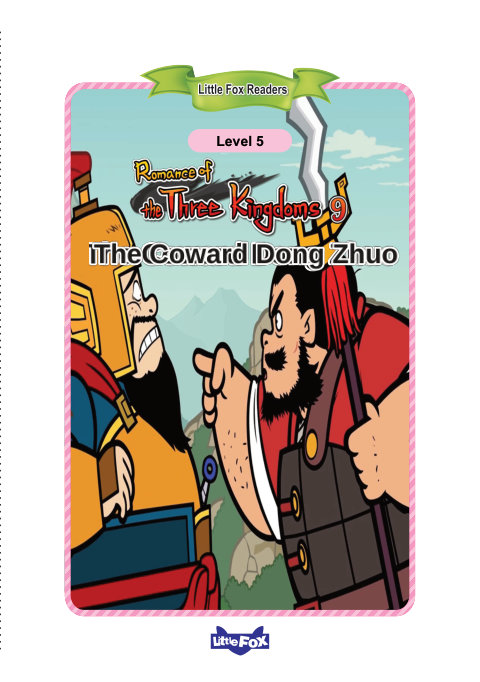
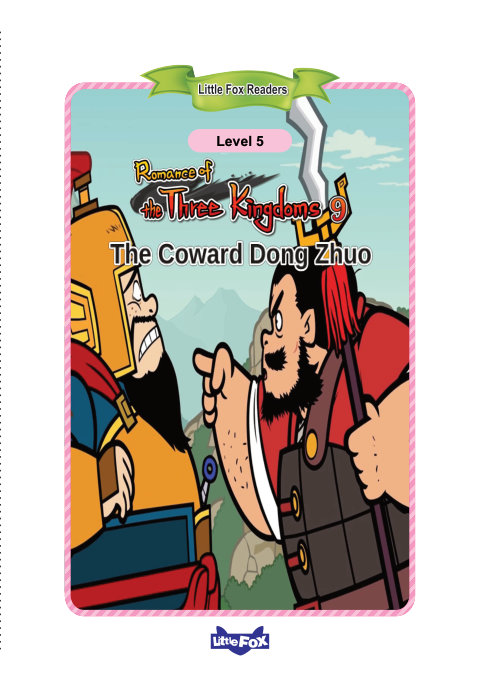
Replace Three Kingdoms episode 9 and 10 PDF sources

Changed region(s): [[0.1875, 0.3387, 0.8438, 0.4003]]

diff --git a/netlify/edge-functions/book-download.js b/netlify/edge-functions/book-download.js
@@ -1,6 +1,6 @@
 import { cloudSource, validPdf } from '../lib/book-cloud.js';
 // A catalogue-source, full-file download. PDF.js never reads this URL directly.
-const SOURCES = {"pdf-reading-test": "https://u.pone.rs/zkaylinz.pdf", "a-dog-of-flanders": "https://u.pone.rs/qelkoevg.pdf", "aladdin-and-his-wonderful-lamp": "https://u.pone.rs/ehbqnbee.pdf", "alice-in-wonderland": "https://u.pone.rs/cmxqudzv.pdf", "gullivers-travels": "https://u.pone.rs/qqccjlit.pdf", "heidi": "https://u.pone.rs/wijcznaj.pdf", "iggy-the-incredible-inventor": "https://u.pone.rs/xaxjurup.pdf", "journey-to-the-west": "https://u.pone.rs/kxjfgzfi.pdf", "rocket-girl-galaxy-squad": "https://u.pone.rs/isqpdqxo.pdf", "rocket-girl-journey-to-the-west": "https://u.pone.rs/yshuiyzs.pdf", "single-stories": "https://u.pone.rs/fudnlnmi.pdf", "the-adventures-of-pinocchio": "https://u.pone.rs/mxuhlmxm.pdf", "the-enchanted-castle": "https://u.pone.rs/cjumsjir.pdf", "the-little-mermaid": "https://u.pone.rs/wrzwsrbd.pdf", "the-railway-children": "https://u.pone.rs/wrafmuqy.pdf", "disney-the-lion-king": "https://u.pone.rs/qrpgpmlj.pdf", "three-kingdoms-02": "https://u.pone.rs/wvrginuf.pdf", "three-kingdoms-03": "https://u.pone.rs/lasqengr.pdf", "three-kingdoms-04": "https://u.pone.rs/lcnpduky.pdf", "three-kingdoms-05": "https://u.pone.rs/xukshgmh.pdf", "three-kingdoms-06": "https://u.pone.rs/tybyybvg.pdf", "three-kingdoms-07": "https://u.pone.rs/adlemyxa.pdf", "three-kingdoms-08": "https://u.pone.rs/dbrfselm.pdf", "three-kingdoms-09": "https://u.pone.rs/lczdukke.pdf", "three-kingdoms-10": "https://u.pone.rs/wcdxxidx.pdf", "three-kingdoms-11": "https://u.pone.rs/canhqqrr.pdf", "three-kingdoms-12": "https://u.pone.rs/kucisgqw.pdf"};
+const SOURCES = {"pdf-reading-test": "https://u.pone.rs/zkaylinz.pdf", "a-dog-of-flanders": "https://u.pone.rs/qelkoevg.pdf", "aladdin-and-his-wonderful-lamp": "https://u.pone.rs/ehbqnbee.pdf", "alice-in-wonderland": "https://u.pone.rs/cmxqudzv.pdf", "gullivers-travels": "https://u.pone.rs/qqccjlit.pdf", "heidi": "https://u.pone.rs/wijcznaj.pdf", "iggy-the-incredible-inventor": "https://u.pone.rs/xaxjurup.pdf", "journey-to-the-west": "https://u.pone.rs/kxjfgzfi.pdf", "rocket-girl-galaxy-squad": "https://u.pone.rs/isqpdqxo.pdf", "rocket-girl-journey-to-the-west": "https://u.pone.rs/yshuiyzs.pdf", "single-stories": "https://u.pone.rs/fudnlnmi.pdf", "the-adventures-of-pinocchio": "https://u.pone.rs/mxuhlmxm.pdf", "the-enchanted-castle": "https://u.pone.rs/cjumsjir.pdf", "the-little-mermaid": "https://u.pone.rs/wrzwsrbd.pdf", "the-railway-children": "https://u.pone.rs/wrafmuqy.pdf", "disney-the-lion-king": "https://u.pone.rs/qrpgpmlj.pdf", "three-kingdoms-02": "https://u.pone.rs/wvrginuf.pdf", "three-kingdoms-03": "https://u.pone.rs/lasqengr.pdf", "three-kingdoms-04": "https://u.pone.rs/lcnpduky.pdf", "three-kingdoms-05": "https://u.pone.rs/xukshgmh.pdf", "three-kingdoms-06": "https://u.pone.rs/tybyybvg.pdf", "three-kingdoms-07": "https://u.pone.rs/adlemyxa.pdf", "three-kingdoms-08": "https://u.pone.rs/dbrfselm.pdf", "three-kingdoms-09": "https://u.pone.rs/cyimcyzw.pdf", "three-kingdoms-10": "https://u.pone.rs/iwihumxn.pdf", "three-kingdoms-11": "https://u.pone.rs/canhqqrr.pdf", "three-kingdoms-12": "https://u.pone.rs/kucisgqw.pdf"};
 export default async function bookDownload(request) {
   if (!['GET', 'HEAD'].includes(request.method)) return new Response('Method not allowed', { status: 405, headers: { Allow: 'GET, HEAD' } });
   const match = /^\/book-download\/([a-z0-9-]+)\.pdf$/.exec(new URL(request.url).pathname);

diff --git a/js/books.js b/js/books.js
@@ -222,6 +222,8 @@ window.BookReader = {
       if (!current()) return;
       if (!blob) {
         const url = new URL(item.downloadUrl || item.sourceUrl, location.origin);
+        // Replacing a PDF under the same book ID must bypass older HTTP responses.
+        if (item.downloadUrl && item.sourceUrl) url.searchParams.set('source', item.sourceUrl);
         if (url.protocol !== 'https:' || url.username || url.password || (item.downloadUrl && url.origin !== location.origin)) throw new Error('绘本加载地址不可用。');
         const response = await fetch(url.href, { signal: controller.signal, credentials: 'omit' });
         if (!response.ok) throw new Error(`加载失败（${response.status}），请重试。`);

diff --git a/index.html b/index.html
@@ -81,7 +81,7 @@
   <script src="source-lab/core.js?v=20261030-dulo-session"></script>
   <script src="js/movie-subtitles.js?v=20261020-1"></script>
   <script src="js/movies.js?v=20261030-dulo-host"></script>
-  <script src="js/books.js?v=20261102-shelf-management"></script>
+  <script src="js/books.js?v=20261103-pdf-replacements"></script>
   <script src="js/book-admin.js?v=20261102-shelf-management"></script>
   <script src="js/episode-games.js?v=20261009-6"></script>
   <script src="js/pronunciation.js?v=20261009-1"></script>
